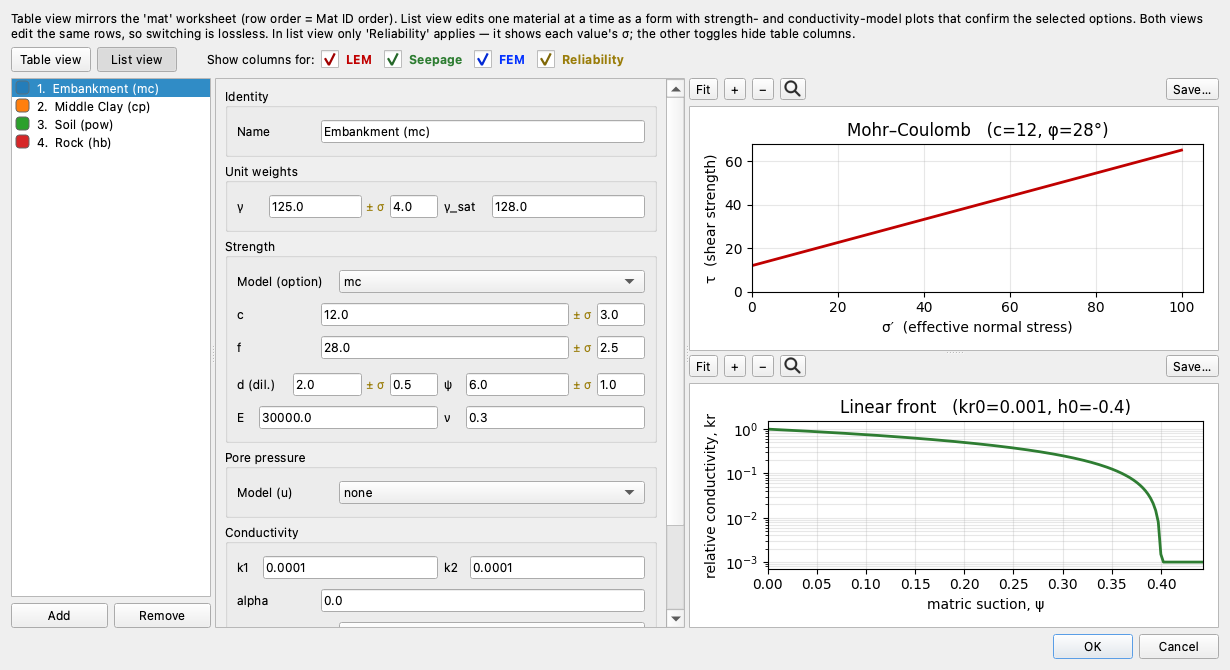
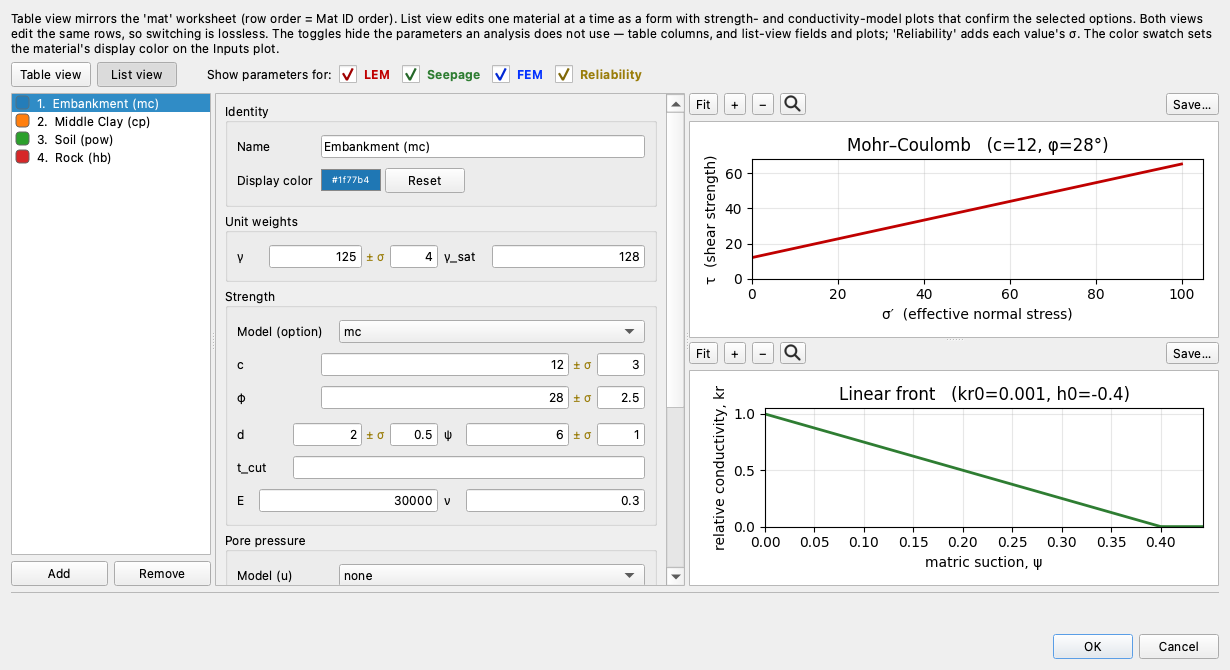
docs(studio): the editing-page materials shots regenerate through real producers
The three screenshots had no producer — grabbed ad hoc in an old session,
they still wore the pre-rename toggle label, the old help text, bare g/gsat
headers, and predated the swatch column. capture_studio_screenshots.py now
builds them from a four-strength-model demo defined in code (mc/cp/pow/hb
rows with sigmas and an lf curve, unit-neutral): the table view with
LEM/Seepage/FEM ticked, the list view with everything on showing the sigma
fields and both plots, and the swatch column on three bare rows.

Claude-Session: https://claude.ai/code/session_01XjjT2aBxw8gY7EFdpoUcpj

diff --git a/tools/capture_studio_screenshots.py b/tools/capture_studio_screenshots.py
@@ -642,6 +642,63 @@ def capture_piles_table():
                  "editing_piles_table.png")
 
 
+def _materials_demo():
+    """The editing page's four-material demo — one row per strength option
+    (mc / cp / pow / hb), sigmas on the first for the Reliability fields, and a
+    linear-front unsat curve so both confirmation plots draw. No unit system is
+    declared, so the shots stay unit-neutral."""
+    return [
+        {"name": "Embankment (mc)", "gamma": 125.0, "gamma_sat": 128.0,
+         "option": "mc", "c": 12.0, "phi": 28.0, "d": 2.0, "psi": 6.0,
+         "sigma_gamma": 4.0, "sigma_c": 3.0, "sigma_phi": 2.5,
+         "sigma_d": 0.5, "sigma_psi": 1.0,
+         "E": 30000.0, "nu": 0.3, "u": "none",
+         "k1": 0.0001, "k2": 0.0001, "alpha": 0.0,
+         "unsat": "lf", "kr0": 0.001, "h0": -0.4},
+        {"name": "Middle Clay (cp)", "gamma": 118.0, "gamma_sat": 120.0,
+         "option": "cp", "c": 8.49, "cp": -4.70625, "r_elev": -1.0},
+        {"name": "Soil (pow)", "gamma": 120.0, "gamma_sat": 122.0,
+         "option": "pow", "pow_a": 1.107, "pow_b": 0.86},
+        {"name": "Rock (hb)", "gamma": 155.0, "gamma_sat": 158.0, "option": "hb"},
+    ]
+
+
+def _materials_dialog(materials, view, toggles, size):
+    """The Materials editor on a bare model, in ``view``, with exactly the named
+    usage ``toggles`` ticked."""
+    from studio.editors import MaterialsEditor
+
+    dlg = MaterialsEditor().build({"materials": materials}, None)
+    for t, cb in dlg._toggles.items():
+        cb.setChecked(t in toggles)
+    dlg.set_view_mode(view)
+    dlg.resize(*size)
+    return dlg
+
+
+def capture_materials_table():
+    """Materials table view on the four-strength-model demo: the mat worksheet
+    row-for-row, LEM/Seepage/FEM columns showing, Reliability off."""
+    dlg = _materials_dialog(_materials_demo(), "table",
+                            ("lem", "seep", "fem"), (1230, 670))
+    return _grab(dlg, "editing_materials_table.png")
+
+
+def capture_materials_list():
+    """Materials list view on the same demo, everything ticked: the grouped form
+    with the ± sigma fields and both confirmation plots."""
+    dlg = _materials_dialog(_materials_demo(), "list",
+                            ("lem", "seep", "fem", "rel"), (1230, 670))
+    return _grab(dlg, "editing_materials_list.png")
+
+
+def capture_materials_table_color():
+    """The color-swatch column, on three bare rows wearing the default palette."""
+    mats = [{"name": n, "option": ""} for n in ("levee", "grout", "foundation")]
+    dlg = _materials_dialog(mats, "table", ("lem", "seep", "fem"), (760, 420))
+    return _grab(dlg, "editing_materials_table_color.png")
+
+
 def capture_seep_bc_editor():
     """Seep BC editor on the earth dam's boundary set, with a demonstration
     infiltration flux added across the crest (the no-flow strip between the pool
@@ -915,6 +972,8 @@ def main():
                capture_reinforcement_editor, capture_reinforcement_table,
                capture_piles_editor, capture_piles_table,
                capture_seep_bc_editor,
+               capture_materials_table, capture_materials_list,
+               capture_materials_table_color,
                capture_dxf_wizard, capture_global_form,
                capture_assistant_settings, capture_assistant_confirm,
                capture_inputs_tree, capture_display_panel_seep,
